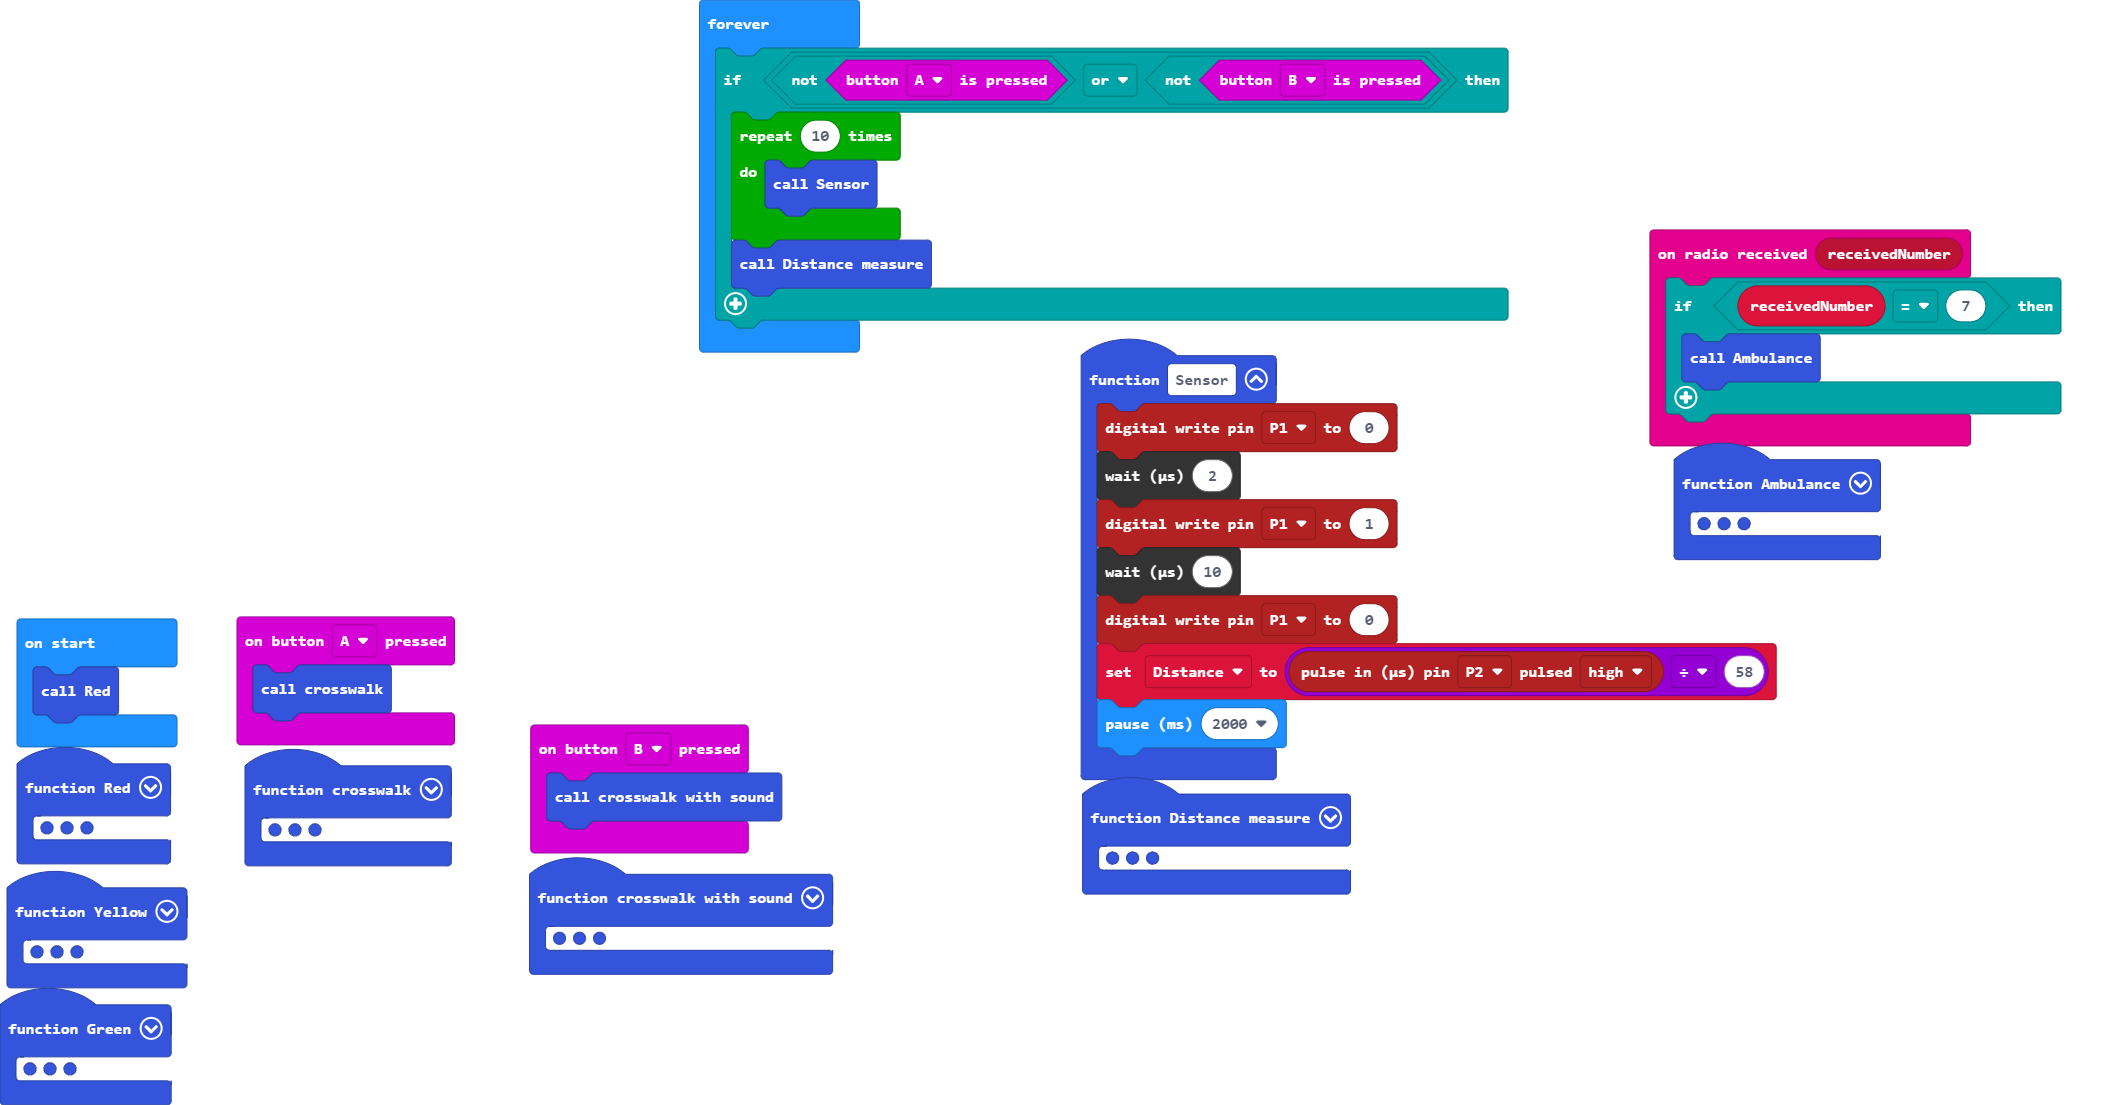
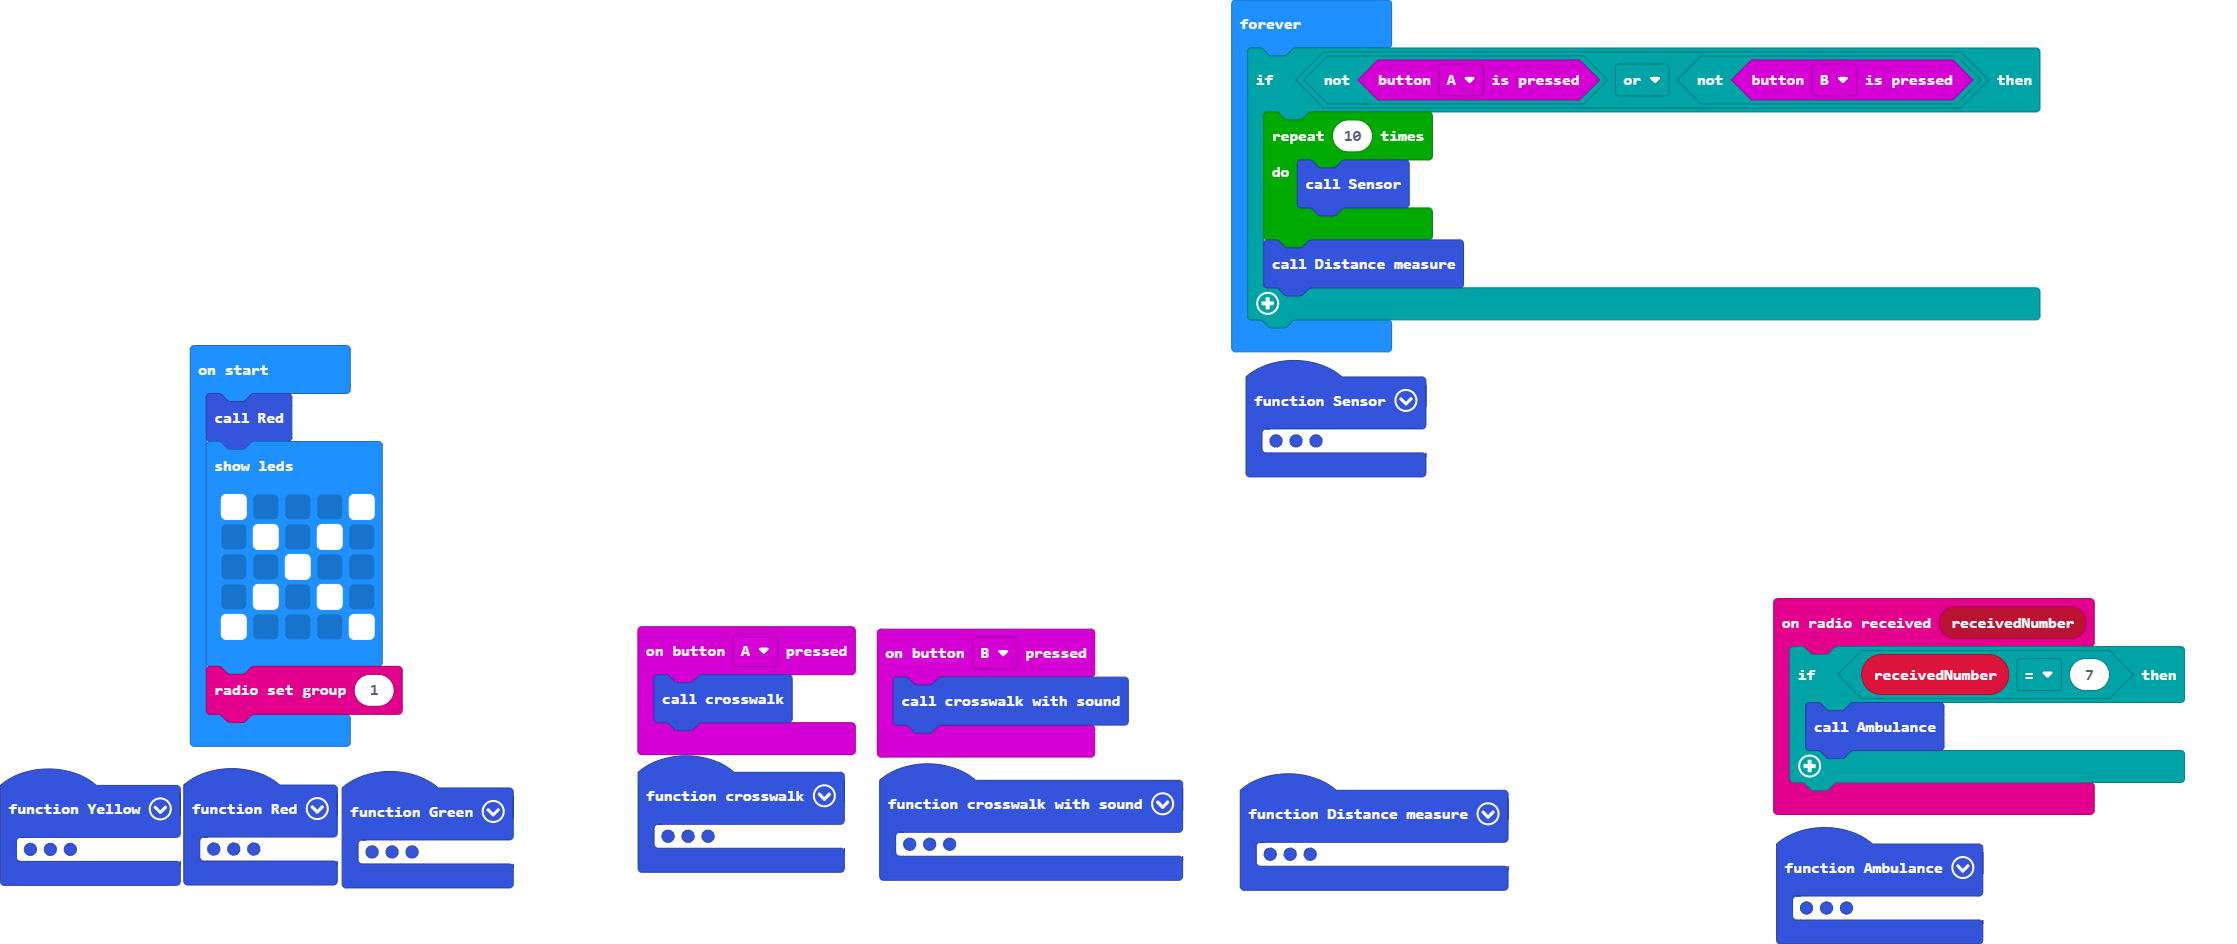
Update main.blocks, main.ts

diff --git a/main.ts b/main.ts
@@ -96,10 +96,6 @@ input.onButtonPressed(Button.A, function () {
 function Distance_measure () {
     if (Distance <= 5) {
         Green()
-        basic.pause(24000)
-        Yellow()
-        basic.pause(3000)
-        Red()
     }
 }
 function Yellow () {
@@ -142,20 +138,20 @@ function Red () {
     range.showColor(neopixel.colors(NeoPixelColors.Black))
     range = strip.range(2, 1)
     range.showColor(neopixel.colors(NeoPixelColors.Black))
-    basic.showLeds(`
-        # . . . #
-        . # . # .
-        . . # . .
-        . # . # .
-        # . . . #
-        `)
-    radio.setGroup(1)
 }
 let range: neopixel.Strip = null
 let strip: neopixel.Strip = null
 let Countdown = 0
 let Distance = 0
 Red()
+basic.showLeds(`
+    # . . . #
+    . # . # .
+    . . # . .
+    . # . # .
+    # . . . #
+    `)
+radio.setGroup(1)
 basic.forever(function () {
     if (!(input.buttonIsPressed(Button.A)) || !(input.buttonIsPressed(Button.B))) {
         for (let index = 0; index < 10; index++) {
